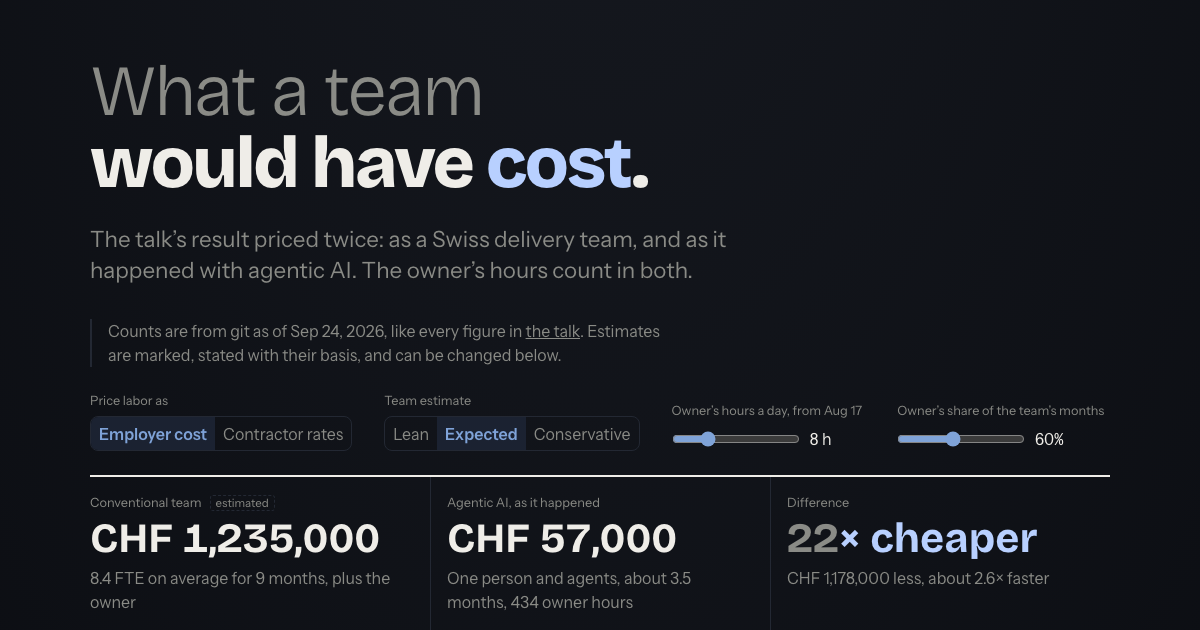
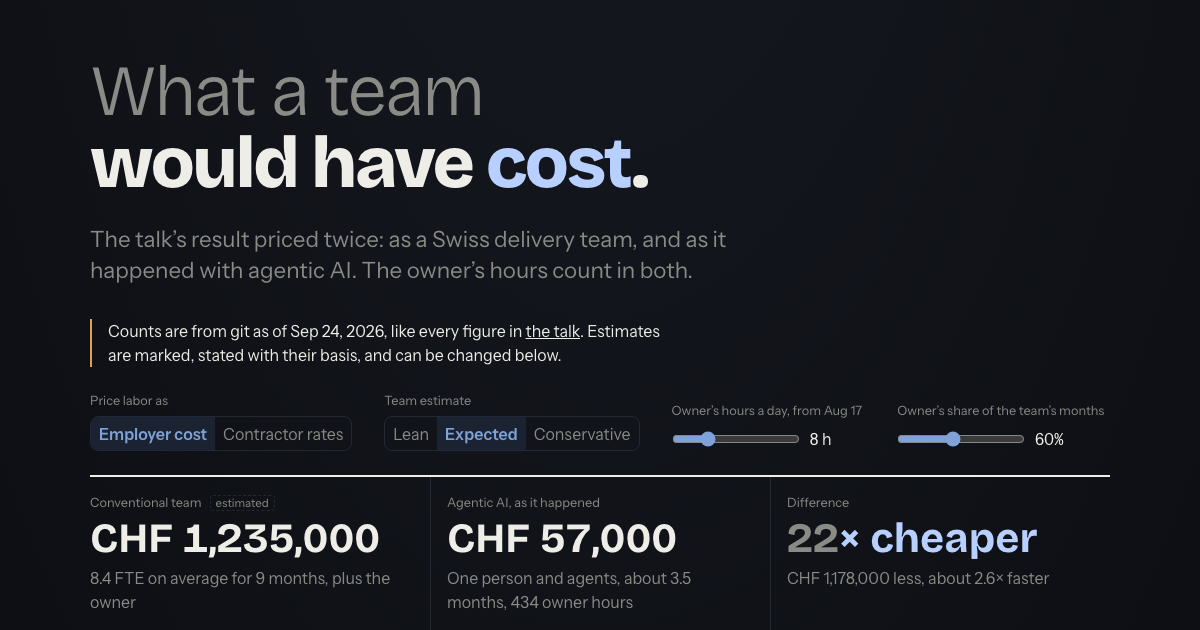
The cost page's title note takes the family's flag line
Every page's title note is set the same way, a 2px line in --c-flag with ink text, and the cost page had carried a grey line and dim text instead; the caveat under the quality table used the same class and becomes a plain muted paragraph, so the flag stays once on the page.

Verified: npm run verify passes on every page; og:check, sitemap:check, design german stale and conventions-check pass.

Changed region(s): [[0.0925, 0.5127, 0.555, 0.573]]

diff --git a/talks/deciding-well/cost/index.html b/talks/deciding-well/cost/index.html
@@ -184,10 +184,10 @@
   main{flex:1; display:flex; align-items:center; padding:2vh 0 6vh}
 
 
-  /* The page's one reversal, and the only honest place for it: the headline says nothing
-     leaves, and one thing does — the request itself, to whoever serves the file. */
+  /* The family's title note, in its one flag line: the headline prices a team, and the note
+     says which figures are counted and which are estimates. */
   .note{margin-top:2rem; max-width:54ch; padding-left:1rem;
-        border-left:2px solid var(--rule); color:var(--dim); font-size:1rem}
+        border-left:2px solid var(--c-flag); color:var(--ink); font-size:1rem}
 
   section{margin-top:clamp(3rem,8vh,5.5rem)}
   h2{font-family:"Bricolage Grotesque", ui-sans-serif, system-ui, sans-serif;
@@ -258,6 +258,7 @@
   .lean.ag::before{background:var(--c-firm); border-radius:50%}
   .lean.tm::before{background:var(--c-weak)}
   .lean.ev::before{border:1.5px solid var(--dim); border-radius:50%; width:.4rem; height:.4rem}
+  .caveat{color:var(--dim); font-size:.9rem; max-width:62ch; margin-block:1rem}
   p.rule{border-left:3px solid var(--c-firm); padding-left:1rem; margin-block:1rem; max-width:62ch}
 </style>
 <link rel="stylesheet" href="../../../chat.css">
@@ -433,7 +434,7 @@
         </tbody>
       </table></div>
       <p class="rule" data-de="Wo das Team vorne liegt, lassen sich die Lücken schliessen: mit einem externen Code- und Security-Review, einer Studie zu Usability und Barrierefreiheit und einem Monat, um einen zweiten Maintainer einzuarbeiten. Das kostet rund <span data-v='gaps'></span> zusätzlich. Das agentische Total läge dann bei <span data-v='gapAg'></span>, immer noch <span data-v='gapRatio'></span>× günstiger.">Closing the gaps where the team is ahead — an external code and security review, a usability and accessibility study, a month to bring in a second maintainer — adds about <span data-v="gaps"></span>. The agentic total would then be <span data-v="gapAg"></span>, still <span data-v="gapRatio"></span>× cheaper.</p>
-      <p class="note" data-de="Das sind Zählungen aus git, kein Audit. Niemand ausserhalb des Projekts hat den Code geprüft. Die Zeile «Implementierung» vergleicht deshalb Fähigkeiten, kein gemessenes Ergebnis.">These are counts from git, not an audit. Nobody outside the project has reviewed the code, so the implementation row compares capability, not a measured outcome.</p>
+      <p class="caveat" data-de="Das sind Zählungen aus git, kein Audit. Niemand ausserhalb des Projekts hat den Code geprüft. Die Zeile «Implementierung» vergleicht deshalb Fähigkeiten, kein gemessenes Ergebnis.">These are counts from git, not an audit. Nobody outside the project has reviewed the code, so the implementation row compares capability, not a measured outcome.</p>
     </section>
 
     <section>
